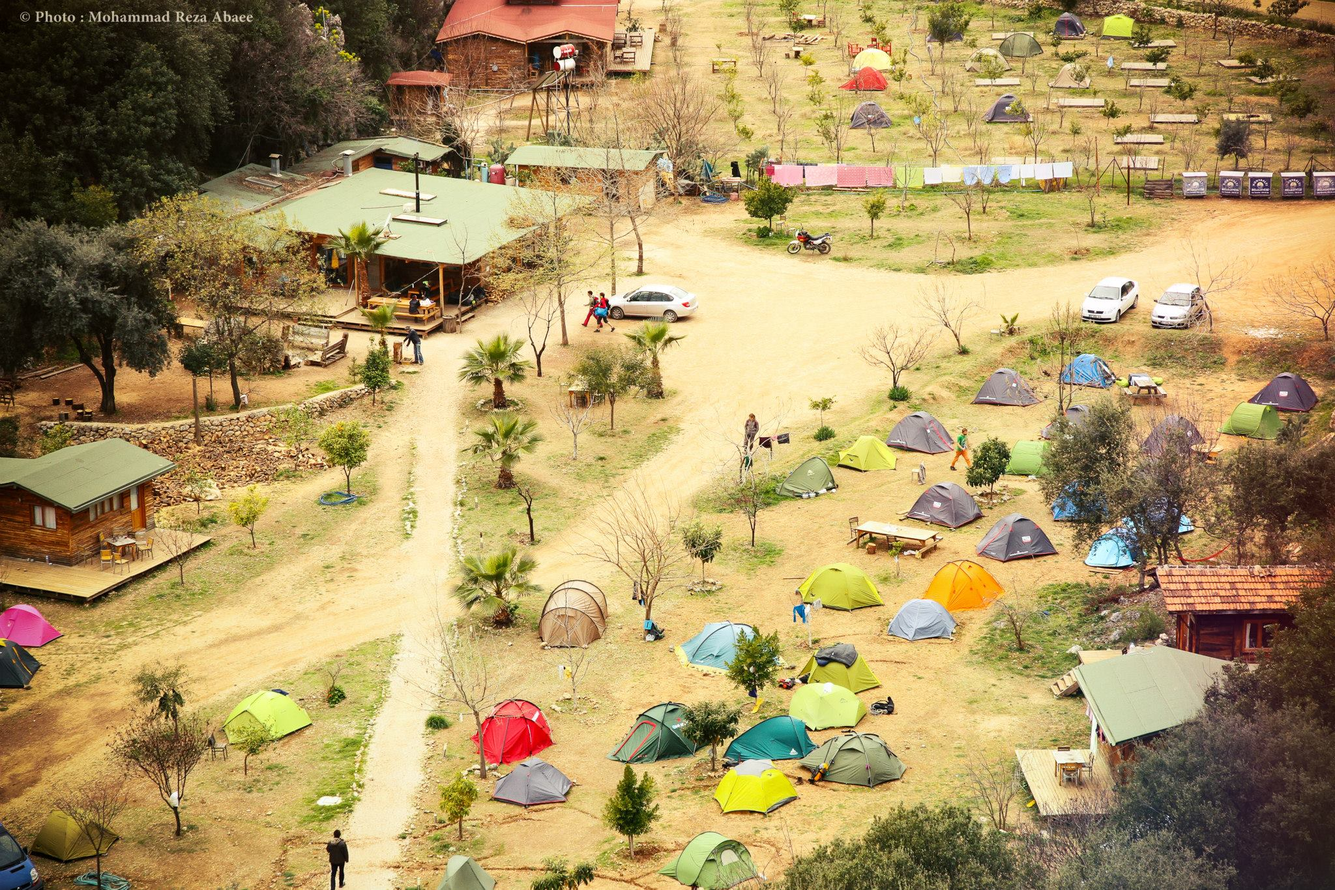
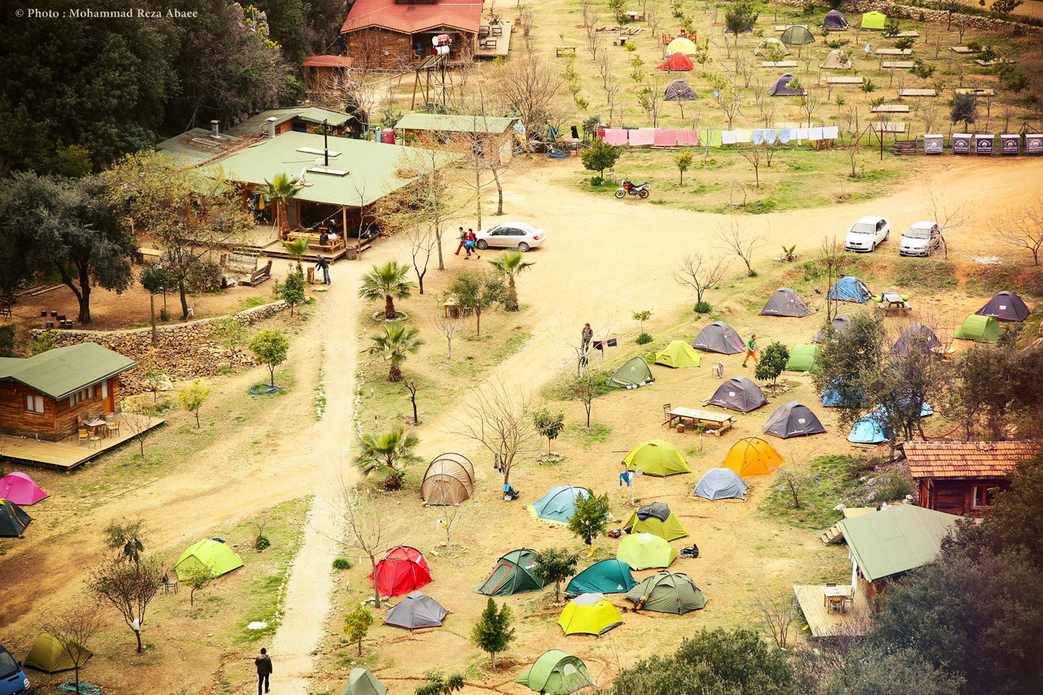
optimized-antalya-images

Changed region(s): [[0.1562, 0.4639, 0.2188, 0.5258], [0.8125, 0.5876, 0.8438, 0.6186]]

diff --git a/_courses/2016-nov-5-antalya.html b/_courses/2016-nov-5-antalya.html
@@ -60,7 +60,7 @@ Instructor
 
 Ещё я альпинист с первым спортивным разрядом. Если участники курса захотят, найдём время на скалолазание».
 " 
-image="/img/course/instructor-matvey.png" 
+image="/img/course/instructor-matvey.jpg" 
 caption="Матвей Орликов"%}
 
 
@@ -109,7 +109,7 @@ Eда
 
 Если вы вегетарианец, предупредите нас за три дня.
 " 
-image="/img/course/food.png" 
+image="/img/course/food.jpg" 
 mask=3
 caption=""
 %}

diff --git a/_courses/2017-apr-crimea.html b/_courses/2017-apr-crimea.html
@@ -58,7 +58,7 @@ Instructor
 
 Ещё я альпинист с первым спортивным разрядом. Если участники курса захотят, найдём время на скалолазание».
 " 
-image="/img/course/instructor-matvey.png" 
+image="/img/course/instructor-matvey.jpg" 
 caption="Матвей Орликов"%}
 
 
@@ -107,7 +107,7 @@ Eда
 
 Если вы вегетарианец, предупредите нас за три дня.
 " 
-image="/img/course/food.png" 
+image="/img/course/food.jpg" 
 mask=3
 caption=""
 %}
